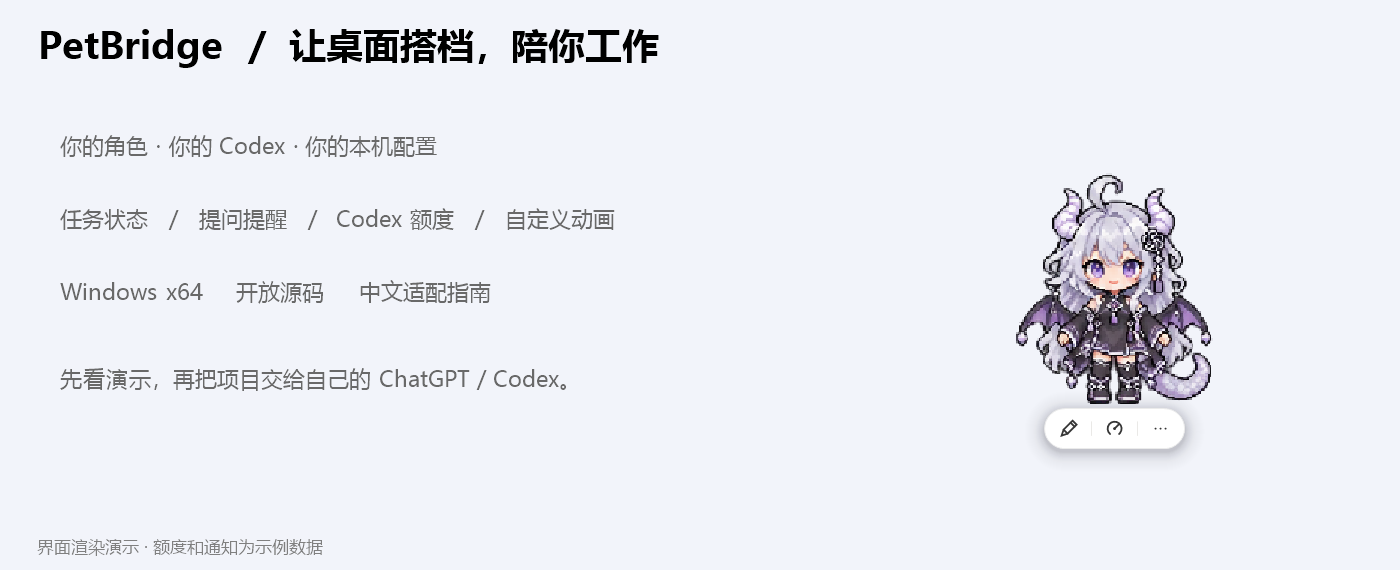
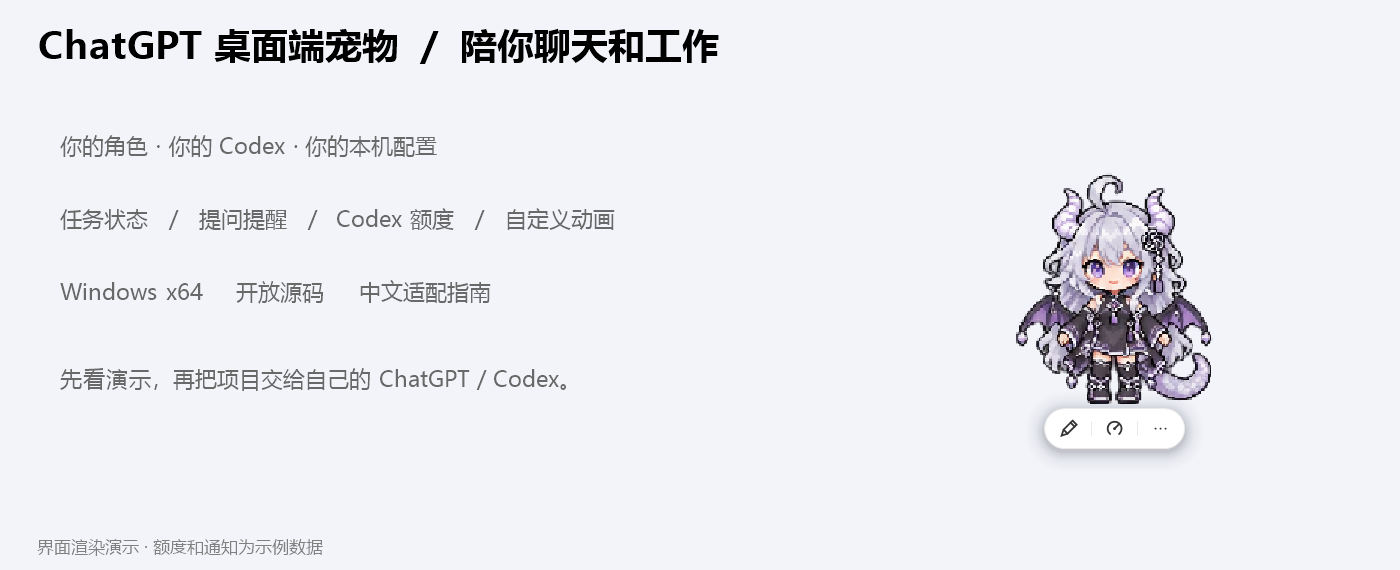
docs: introduce ChatGPT desktop pet and its origin

Changed region(s): [[0.0307, 0.0298, 0.5221, 0.1193]]

diff --git a/docs/RELEASE-COPY.zh-CN.html b/docs/RELEASE-COPY.zh-CN.html
@@ -1,32 +1,38 @@
-<!doctype html><html lang="zh-CN"><meta charset="utf-8"><meta name="viewport" content="width=device-width,initial-scale=1"><base href="./"><title>PetBridge · 中文阅读版</title><style>*{box-sizing:border-box}body{margin:0;color:#30313d;background:#f2f3f8;font:16px/1.9 "Segoe UI","Microsoft YaHei",sans-serif}nav{background:#242533;color:#fff;padding:16px 5%;position:sticky;top:0;z-index:2;display:flex;gap:24px;flex-wrap:wrap}nav a{color:#ded8ff;text-decoration:none}nav strong{margin-right:auto}main{max-width:1100px;margin:30px auto;padding:42px 52px;background:white;border-radius:24px;box-shadow:0 12px 40px #2923330b}h1{font-size:34px;line-height:1.4;color:#252436}h2{border-top:1px solid #e8e6ef;padding-top:27px;margin-top:36px;font-size:24px}h3{font-size:19px;margin-top:25px}a{color:#6552a0}img,video{display:block;max-width:100%;height:auto;border-radius:15px;margin:20px auto}pre{background:#272735;color:#f0edf8;padding:22px;border-radius:12px;white-space:pre-wrap;overflow-wrap:anywhere;line-height:1.7}code{font:14px Consolas,monospace;background:#f0edf7;padding:2px 5px;border-radius:4px}img[src$=".gif"]{image-rendering:pixelated}pre code{background:none;padding:0}blockquote{margin:20px 0;border-left:4px solid #a893d0;background:#f7f5fb;padding:12px 22px;color:#686278}table{border-collapse:collapse;width:100%;margin:20px 0;font-size:14px}td,th{padding:12px;text-align:left;border-bottom:1px solid #e7e6ed}th{background:#f6f4fa}li{margin:8px 0}details{padding:16px 22px;background:#f8f7fb;border-radius:12px}summary{cursor:pointer;font-weight:bold}footer{color:#898492;font-size:13px;margin-top:40px}.tag{color:#827095;font-size:13px;letter-spacing:1px}@media(max-width:700px){main{margin:0;padding:24px 18px;border-radius:0}h1{font-size:28px}nav{position:static;gap:12px}table{display:block;overflow:auto}}</style><nav><strong>PetBridge</strong><a href="PROJECT-PREVIEW.html">项目首页</a><a href="FEATURE-GALLERY.zh-CN.html">功能图鉴</a><a href="CUSTOMIZE-CHARACTER.zh-CN.html">改角色</a><a href="RELEASE-COPY.zh-CN.html">发布文案</a></nav><main><div class="tag">WINDOWS DESKTOP COMPANION · v1.3.1</div><h1 id="可直接复制的-github-发布文案">可直接复制的 GitHub 发布文案</h1>
-<p>README 已经是排版好的仓库首页。以下是不同位置可直接粘贴的短文案；仓库地址请换成你自己的。</p>
+<!doctype html><html lang="zh-CN"><meta charset="utf-8"><meta name="viewport" content="width=device-width,initial-scale=1"><base href="./"><title>ChatGPT 桌面端宠物 · 中文阅读版</title><style>*{box-sizing:border-box}body{margin:0;color:#30313d;background:#f2f3f8;font:16px/1.9 "Segoe UI","Microsoft YaHei",sans-serif}nav{background:#242533;color:#fff;padding:16px 5%;position:sticky;top:0;z-index:2;display:flex;gap:24px;flex-wrap:wrap}nav a{color:#ded8ff;text-decoration:none}nav strong{margin-right:auto}main{max-width:1100px;margin:30px auto;padding:42px 52px;background:white;border-radius:24px;box-shadow:0 12px 40px #2923330b}h1{font-size:34px;line-height:1.4;color:#252436}h2{border-top:1px solid #e8e6ef;padding-top:27px;margin-top:36px;font-size:24px}h3{font-size:19px;margin-top:25px}a{color:#6552a0}img,video{display:block;max-width:100%;height:auto;border-radius:15px;margin:20px auto}pre{background:#272735;color:#f0edf8;padding:22px;border-radius:12px;white-space:pre-wrap;overflow-wrap:anywhere;line-height:1.7}code{font:14px Consolas,monospace;background:#f0edf7;padding:2px 5px;border-radius:4px}img[src$=".gif"]{image-rendering:pixelated}pre code{background:none;padding:0}blockquote{margin:20px 0;border-left:4px solid #a893d0;background:#f7f5fb;padding:12px 22px;color:#686278}table{border-collapse:collapse;width:100%;margin:20px 0;font-size:14px}td,th{padding:12px;text-align:left;border-bottom:1px solid #e7e6ed}th{background:#f6f4fa}li{margin:8px 0}details{padding:16px 22px;background:#f8f7fb;border-radius:12px}summary{cursor:pointer;font-weight:bold}footer{color:#898492;font-size:13px;margin-top:40px}.tag{color:#827095;font-size:13px;letter-spacing:1px}@media(max-width:700px){main{margin:0;padding:24px 18px;border-radius:0}h1{font-size:28px}nav{position:static;gap:12px}table{display:block;overflow:auto}}</style><nav><strong>ChatGPT 桌面端宠物</strong><a href="PROJECT-PREVIEW.html">项目首页</a><a href="FEATURE-GALLERY.zh-CN.html">功能图鉴</a><a href="CUSTOMIZE-CHARACTER.zh-CN.html">改角色</a><a href="RELEASE-COPY.zh-CN.html">发布文案</a></nav><main><div class="tag">WINDOWS DESKTOP COMPANION · v1.3.1</div><h1 id="github-项目介绍与发布文案">GitHub 项目介绍与发布文案</h1>
 <h2 id="仓库-description">仓库 Description</h2>
-<p>可换角色的 Windows 桌面搭档：任务状态、提问提醒、Codex 额度和自定义像素动画，可交给自己的 ChatGPT / Codex 适配。</p>
+<p>ChatGPT 桌面端宠物：用 Codex 制作，支持任务与提问提醒、Codex 额度、像素动画和自定义角色。</p>
 <h2 id="推荐-topics">推荐 Topics</h2>
 <p><code>desktop-pet</code> <code>windows</code> <code>codex</code> <code>chatgpt</code> <code>pixel-art</code> <code>desktop-companion</code> <code>csharp</code></p>
 <h2 id="发帖--转发介绍">发帖 / 转发介绍</h2>
-<p>做了一个可换角色的 Windows 桌面搭档 PetBridge，现已开源。</p>
-<p>平时是人物脚边的小胶囊，鼠标碰到展开工具条；任务进行时思考、显示三点，完成或需要回答时弹气泡。支持左右贴边、额度胶囊、字体位置和投影调整，也能换成自己的角色。</p>
-<p>默认附灰黑微紫的像素 ChatGPT 娘，有待机、左右走路、招手、跳跃、思考和 16 向注视。动作不齐也能用，缺少跳跃就模拟，不必重新画整套。</p>
-<p>下载后可把完整项目交给自己的本机 ChatGPT / Codex，按附带提示词绑定自己的环境，也可以让 Codex 帮你改形象。普通聊天完成气泡默认关闭；额度显示的是 Codex 额度。兼容桥接取决于本机桌面组件与版本。</p>
-<p>Windows 运行包、源码、功能演示、角色定制和新手教程都在仓库。代码 MIT，默认角色与图标按素材说明。这是独立项目，非 OpenAI 官方产品。</p>
-<p>仓库链接：替换成自己的 GitHub 地址。</p>
+<p>做了一个 ChatGPT 桌面端宠物，项目叫 PetBridge。</p>
+<p>起初觉得官方宠物与任务状态的互动还不够贴合自己的习惯，于是用 Codex 做了这个项目：工作时陪你思考，需要回答时叫你，完成后弹气泡，还能随手看 Codex 额度。</p>
+<p>支持左右贴边、胶囊工具条、快捷聊天和详细外观设置。附带灰黑微紫像素 ChatGPT 娘，也可以换成自己的角色，或把项目交给自己的 Codex 帮忙适配、修改形象。</p>
+<p>Windows 体验包、源码、动作演示和中文适配指南都已备好。PetBridge 是独立社区项目，非 OpenAI 官方产品；代码 MIT，角色和标识另见素材说明。</p>
 <h2 id="release-标题">Release 标题</h2>
-<p>PetBridge v1.3.1｜角色、功能演示与中文适配指南</p>
+<p>ChatGPT 桌面端宠物 v1.3.1</p>
 <h2 id="release-正文">Release 正文</h2>
-<h3 id="这版有什么">这版有什么</h3>
+<p>让自己的角色，陪你聊天和完成任务。</p>
+<h3 id="为什么做这个">为什么做这个</h3>
+<p>起初使用官方宠物时，我觉得它还不够懂我的工作状态：我希望它能跟着任务思考、在需要回答时叫我、完成后告诉我，也能随手看一眼剩余额度。于是，我用 Codex 做了这个更贴合自己使用习惯的 ChatGPT 桌面端宠物，并把它整理成可以自己适配、自己换角色的开源项目。</p>
+<p><a href="https://github.com/litianby33/PetBridge#readme">功能与动作演示</a> · <a href="https://github.com/litianby33/PetBridge/blob/main/docs/CODEX-ADAPT.zh-CN.md">本机适配指南</a> · <a href="https://github.com/litianby33/PetBridge/blob/main/docs/CUSTOMIZE-CHARACTER.zh-CN.md">让 Codex 改角色</a></p>
+<h3 id="它能做什么">它能做什么</h3>
 <ul>
-<li>灰黑微紫像素角色：六组动作、16 向注视，修正走路腿部交换。</li>
-<li>悬停胶囊、独立聊天输入、Codex 额度和重置时间；额度排版与投影可调。</li>
-<li>进行中思考与三点、完成／低额／耗尽／重置／待回答气泡，左右贴边唤出。</li>
-<li>普通 ChatGPT 完成气泡默认关闭，Work / Codex 保留；点击可选仅收起或跳转。</li>
-<li>精简右键菜单、12 个设置页、完整 GIF／图片图鉴。</li>
-<li>接收者绑定自己的 Codex 和角色；附让 Codex 改形象的提示词。</li>
+<li><strong>陪你工作</strong>：任务进行时持续思考，旁边用三点显示状态；完成或需要回答时弹出提醒。</li>
+<li><strong>随手看额度</strong>：查看 Codex 的 5 小时、本周剩余额度和重置时间，支持阈值提醒，靠边自动变为竖排胶囊。</li>
+<li><strong>快捷开始聊天</strong>：点击聊天框左侧图标选择 Codex 或普通 ChatGPT，也可用 Alt+1 / Alt+2 切换。</li>
+<li><strong>按习惯接收提醒</strong>：Work、Codex 和普通聊天分别设置；气泡可选择点击收起或跳转对话。</li>
+<li><strong>安静待在桌边</strong>：左右贴边探头，点击展开，悬停看简洁额度；支持临时隐藏和全屏避让。</li>
+<li><strong>调整成喜欢的样子</strong>：字体、位置、阴影、气泡颜色和三点加载都可调，有 12 个详细设置页。</li>
+<li><strong>用自己的角色</strong>：附灰黑微紫像素 ChatGPT 娘，包含六组动作和 16 向注视；支持更换角色，也可以让 Codex 帮你改形象。缺少动作时使用基础动作，没有跳跃时模拟跳。</li>
 </ul>
-<h3 id="下载哪个">下载哪个</h3>
-<table><tr><th>附件</th><th>用途</th></tr><tr><td>PetBridge-v1.3.1-windows-x64.zip</td><td>Windows 体验包，含程序、源码、公开角色与文档</td></tr><tr><td>PetBridge-v1.3.1-source.zip</td><td>源码包，编译或修改用</td></tr><tr><td>SHA256SUMS.txt</td><td>校验下载文件内容</td></tr></table>
-<p>完整解压，进入 PetBridge 文件夹，双击 Start.cmd。右键人物 → 详细设置 → 测试工具可预览。绑定和换角色请阅读 README，再复制“给Codex的提示词.txt”交给自己的本机助手。</p>
-<h3 id="使用边界">使用边界</h3>
-<p>Codex 额度不等同于普通 ChatGPT 每个模型的额度。桌宠输入是独立会话。桌面 ChatGPT / Work 桥接需本机组件，版本更新后可能需适配；异步提问不保证全部导出。图片为离线界面演示，不含作者账号配置或私人角色。</p>
-<p>代码 MIT，生成角色和第三方标识见 ARTWORK / THIRD_PARTY_NOTICES。本项目非 OpenAI 官方产品。</p>
-<p>本版新增：靠边自动竖排额度，横竖独立排版；输入框可选 Codex 桌宠回复或普通 ChatGPT 桌面草稿，普通目标仍需在桌面手动发送。</p><footer>本地阅读版；GitHub 首页由 README.md 展示。图片与 GIF 随项目保存，无需登录即可阅读。</footer></main></html>
+<h3 id="下载与开始">下载与开始</h3>
+<table><tr><th>附件</th><th>用途</th></tr><tr><td>PetBridge-v1.3.1-windows-x64.zip</td><td>Windows 体验包：程序、源码、默认角色和文档</td></tr><tr><td>PetBridge-v1.3.1-source.zip</td><td>编译或修改代码的源码包</td></tr><tr><td>SHA256SUMS.txt</td><td>下载文件的 SHA-256 校验值</td></tr></table>
+<p>完整解压，进入 PetBridge 文件夹，双击 Start.cmd。右键人物 → 详细设置 → 测试工具，可以预览动作与提醒。绑定自己的环境或换角色，请阅读 README，再把“给Codex的提示词.txt”交给能操作本机项目的 ChatGPT / Codex。</p>
+<h3 id="使用说明">使用说明</h3>
+<ul>
+<li>Windows x64 / .NET Framework 4.8。角色导入工具需要 Python + Pillow。</li>
+<li>Codex 聊天在桌宠独立会话中回复；普通 ChatGPT 打开桌面草稿，仍需在桌面手动发送和查看回复。</li>
+<li>额度显示的是 Codex 账号额度。普通 ChatGPT 联动与完成气泡默认关闭，Work / Codex 和提问提醒可分别调整。</li>
+<li>ChatGPT / Work 联动依赖本机桌面组件与版本；异步提问的识别范围取决于组件提供的状态。演示使用示例数据。</li>
+<li>PetBridge 是独立社区项目，非 OpenAI 官方产品。代码 MIT；生成角色与第三方标识见 ARTWORK.md / THIRD_PARTY_NOTICES.md。</li>
+</ul><footer>本地阅读版；GitHub 首页由 README.md 展示。图片与 GIF 随项目保存，无需登录即可阅读。</footer></main></html>

diff --git a/docs/PROJECT-PREVIEW.html b/docs/PROJECT-PREVIEW.html
@@ -1,12 +1,14 @@
-<!doctype html><html lang="zh-CN"><meta charset="utf-8"><meta name="viewport" content="width=device-width,initial-scale=1"><base href="../"><title>PetBridge · 中文阅读版</title><style>*{box-sizing:border-box}body{margin:0;color:#30313d;background:#f2f3f8;font:16px/1.9 "Segoe UI","Microsoft YaHei",sans-serif}nav{background:#242533;color:#fff;padding:16px 5%;position:sticky;top:0;z-index:2;display:flex;gap:24px;flex-wrap:wrap}nav a{color:#ded8ff;text-decoration:none}nav strong{margin-right:auto}main{max-width:1100px;margin:30px auto;padding:42px 52px;background:white;border-radius:24px;box-shadow:0 12px 40px #2923330b}h1{font-size:34px;line-height:1.4;color:#252436}h2{border-top:1px solid #e8e6ef;padding-top:27px;margin-top:36px;font-size:24px}h3{font-size:19px;margin-top:25px}a{color:#6552a0}img,video{display:block;max-width:100%;height:auto;border-radius:15px;margin:20px auto}pre{background:#272735;color:#f0edf8;padding:22px;border-radius:12px;white-space:pre-wrap;overflow-wrap:anywhere;line-height:1.7}code{font:14px Consolas,monospace;background:#f0edf7;padding:2px 5px;border-radius:4px}img[src$=".gif"]{image-rendering:pixelated}pre code{background:none;padding:0}blockquote{margin:20px 0;border-left:4px solid #a893d0;background:#f7f5fb;padding:12px 22px;color:#686278}table{border-collapse:collapse;width:100%;margin:20px 0;font-size:14px}td,th{padding:12px;text-align:left;border-bottom:1px solid #e7e6ed}th{background:#f6f4fa}li{margin:8px 0}details{padding:16px 22px;background:#f8f7fb;border-radius:12px}summary{cursor:pointer;font-weight:bold}footer{color:#898492;font-size:13px;margin-top:40px}.tag{color:#827095;font-size:13px;letter-spacing:1px}@media(max-width:700px){main{margin:0;padding:24px 18px;border-radius:0}h1{font-size:28px}nav{position:static;gap:12px}table{display:block;overflow:auto}}</style><nav><strong>PetBridge</strong><a href="docs/PROJECT-PREVIEW.html">项目首页</a><a href="docs/FEATURE-GALLERY.zh-CN.html">功能图鉴</a><a href="docs/CUSTOMIZE-CHARACTER.zh-CN.html">改角色</a><a href="docs/RELEASE-COPY.zh-CN.html">发布文案</a></nav><main><div class="tag">WINDOWS DESKTOP COMPANION · v1.3.1</div><div align="center">
-<h1 id="petbridge">PetBridge</h1>
+<!doctype html><html lang="zh-CN"><meta charset="utf-8"><meta name="viewport" content="width=device-width,initial-scale=1"><base href="../"><title>ChatGPT 桌面端宠物 · 中文阅读版</title><style>*{box-sizing:border-box}body{margin:0;color:#30313d;background:#f2f3f8;font:16px/1.9 "Segoe UI","Microsoft YaHei",sans-serif}nav{background:#242533;color:#fff;padding:16px 5%;position:sticky;top:0;z-index:2;display:flex;gap:24px;flex-wrap:wrap}nav a{color:#ded8ff;text-decoration:none}nav strong{margin-right:auto}main{max-width:1100px;margin:30px auto;padding:42px 52px;background:white;border-radius:24px;box-shadow:0 12px 40px #2923330b}h1{font-size:34px;line-height:1.4;color:#252436}h2{border-top:1px solid #e8e6ef;padding-top:27px;margin-top:36px;font-size:24px}h3{font-size:19px;margin-top:25px}a{color:#6552a0}img,video{display:block;max-width:100%;height:auto;border-radius:15px;margin:20px auto}pre{background:#272735;color:#f0edf8;padding:22px;border-radius:12px;white-space:pre-wrap;overflow-wrap:anywhere;line-height:1.7}code{font:14px Consolas,monospace;background:#f0edf7;padding:2px 5px;border-radius:4px}img[src$=".gif"]{image-rendering:pixelated}pre code{background:none;padding:0}blockquote{margin:20px 0;border-left:4px solid #a893d0;background:#f7f5fb;padding:12px 22px;color:#686278}table{border-collapse:collapse;width:100%;margin:20px 0;font-size:14px}td,th{padding:12px;text-align:left;border-bottom:1px solid #e7e6ed}th{background:#f6f4fa}li{margin:8px 0}details{padding:16px 22px;background:#f8f7fb;border-radius:12px}summary{cursor:pointer;font-weight:bold}footer{color:#898492;font-size:13px;margin-top:40px}.tag{color:#827095;font-size:13px;letter-spacing:1px}@media(max-width:700px){main{margin:0;padding:24px 18px;border-radius:0}h1{font-size:28px}nav{position:static;gap:12px}table{display:block;overflow:auto}}</style><nav><strong>ChatGPT 桌面端宠物</strong><a href="docs/PROJECT-PREVIEW.html">项目首页</a><a href="docs/FEATURE-GALLERY.zh-CN.html">功能图鉴</a><a href="docs/CUSTOMIZE-CHARACTER.zh-CN.html">改角色</a><a href="docs/RELEASE-COPY.zh-CN.html">发布文案</a></nav><main><div class="tag">WINDOWS DESKTOP COMPANION · v1.3.1</div><div align="center">
+<h1 id="chatgpt-桌面端宠物">ChatGPT 桌面端宠物</h1>
 <h3 id="让自己的角色陪你聊天和完成任务">让自己的角色，陪你聊天和完成任务</h3>
-<p>Windows 桌面搭档 · 可换角色 · Codex 状态与额度 · ChatGPT / Work 兼容桥接</p>
+<p>PetBridge · Windows 桌面宠物 · 任务与提问提醒 · Codex 额度 · 自定义角色</p>
 <p><strong>v1.3.1</strong> · Windows x64 / .NET Framework 4.8 · 代码 MIT · 独立社区项目</p>
 <p><a href="#开始使用">开始使用</a> · <a href="docs/FEATURE-GALLERY.zh-CN.html">功能图鉴</a> · <a href="docs/CUSTOMIZE-CHARACTER.zh-CN.html">让 Codex 改角色</a></p>
-<p><img alt="PetBridge 桌面搭档" src="docs/media/hero.png" loading="lazy"></p>
+<p><img alt="ChatGPT 桌面端宠物" src="docs/media/hero.png" loading="lazy"></p>
 </div>
 <p>任务进行时思考，需要你回答时提醒你，任务结束后弹出气泡。你可以换成自己的角色，也可以让能操作本机项目的 ChatGPT / Codex 帮你适配。</p>
+<h2 id="为什么做这个">为什么做这个</h2>
+<p>起初使用官方宠物时，我觉得它还不够懂我的工作状态：我希望它能跟着任务思考、在需要回答时叫我、完成后告诉我，也能随手看一眼剩余额度。于是，我用 Codex 做了这个更贴合自己使用习惯的 ChatGPT 桌面端宠物，并把它整理成可以自己适配、自己换角色的开源项目。</p>
 <blockquote>图片由程序自己的界面代码离线渲染，额度与通知是示例数据。额度胶囊显示 <strong>Codex 额度</strong>；Codex 桌宠聊天是独立会话；普通 ChatGPT 目标通过桌面草稿继续。普通 ChatGPT 完成气泡默认关闭，Work / Codex 完成提醒默认保留。</blockquote>
 <h2 id="先看角色动起来">先看角色动起来</h2>
 <p><img alt="六组动作：待机、左右移动、招手、跳跃、思考" src="docs/media/animations.gif" loading="lazy"></p>
@@ -30,7 +32,7 @@
 <p>聊天框使用单行胶囊：点击左侧模式图标选择 <strong>Codex</strong> 或 <strong>普通 ChatGPT</strong>，也可用 <code>Alt+1</code> / <code>Alt+2</code> 切换。Codex 在桌宠内回复；普通 ChatGPT 会打开桌面草稿，仍需手动发送。复制和历史记录等功能收进“聊天选项”。</p>
 <p><img alt="五种提醒" src="docs/media/notifications.png" loading="lazy"></p>
 <p><img alt="左右贴边" src="docs/media/edges.png" loading="lazy"></p>
-<p><strong>0% 不会随刷新反复提醒。</strong> 确认任务结束后才判断阈值，同一终态事件最多处理一次；用完时说明重置时间，检测到新额度周期时提醒一次。失败、取消不报成成功。</p>
+<p>可设置额度提醒阈值，在任务结束时查看剩余额度；额度用完或进入新的 5 小时周期时，也能收到气泡提醒。</p>
 <p>查看 <a href="docs/FEATURE-GALLERY.zh-CN.html">全部功能与 12 个设置页</a>。下载后也可以在“详细设置 → 测试工具”亲自预览，不必发送真实聊天。</p>
 <h2 id="开始使用">开始使用</h2>
 <ol>
@@ -51,7 +53,7 @@
 <p>也可以请 Codex 帮你改配色、服装细节或生成动作。用 <a href="docs/CUSTOMIZE-CHARACTER.zh-CN.html">角色改造提示词</a>，先确认设计和绘图范围，保留原图，再接入角色。</p>
 <h2 id="联动范围">联动范围</h2>
 <table><tr><th>来源</th><th>支持范围</th><th>条件与限制</th></tr><tr><td>本机 Codex</td><td>任务状态、结束事件、可识别的提问</td><td>只读结构化任务记录</td></tr><tr><td>桌面 Work / 云端 Codex</td><td>兼容桥接状态与完成提醒</td><td>依赖已安装 app-tools，应用需运行</td></tr><tr><td>普通 ChatGPT</td><td>联动与完成气泡默认关闭；提问提醒独立控制</td><td>异步问题不保证导出等待标志</td></tr><tr><td>桌宠输入框</td><td>Codex 在桌宠内回复；普通 ChatGPT 带到桌面草稿</td><td>普通目标仍需在桌面点发送，回复在桌面查看</td></tr><tr><td>5 小时 / 本周额度</td><td>Codex 账号额度与重置时间</td><td>不代表普通 ChatGPT 各模型的通用额度</td></tr></table>
-<p>兼容桥接约 2.5 秒检查最近 50 个及置顶聊天，应用版本变化可能需要适配。数据缺失、等待回答不算成功完成；不通过正文问号猜问题。桥接不是稳定的官方外部接口。</p>
+<p>兼容桥接约 2.5 秒检查最近 50 个及置顶聊天，应用版本变化可能需要适配。桥接不是稳定的官方外部接口。</p>
 <h2 id="开发与素材">开发与素材</h2>
 <pre><code>.\scripts\Build.ps1
 .\scripts\Test.ps1
@@ -61,4 +63,4 @@ python .\tools\package_release.py --output ..\release</code></pre>
 <table><tr><th>想做什么</th><th>文档</th></tr><tr><td>看全功能与设置</td><td><a href="docs/FEATURE-GALLERY.zh-CN.html">功能图鉴</a></td></tr><tr><td>绑定自己的电脑</td><td><a href="docs/CODEX-ADAPT.zh-CN.md">本机适配</a></td></tr><tr><td>换角色、改形象</td><td><a href="docs/CUSTOMIZE-CHARACTER.zh-CN.html">角色定制</a></td></tr><tr><td>复制发布介绍</td><td><a href="docs/RELEASE-COPY.zh-CN.html">发布文案</a></td></tr><tr><td>动作映射与备用动作</td><td><a href="docs/ANIMATIONS.zh-CN.md">动画说明</a></td></tr><tr><td>故障处理 / 开发入口</td><td><a href="docs/TROUBLESHOOTING.zh-CN.md">排错</a> · <a href="docs/ARCHITECTURE.md">架构</a></td></tr></table>
 <p>PetBridge 是独立社区项目，非 OpenAI 官方产品。代码 MIT；角色与标识按各自说明。发布包使用文件白名单，并扫描运行数据、个人路径和私有素材。</p>
 <h3 id="分别控制聊天联动">分别控制聊天联动</h3>
-<p>在「设置 → 联动设置」分别控制普通 ChatGPT 聊天、Work / 云端 Codex 和提问提醒。普通聊天联动默认关闭，不参与思考、三点状态和完成气泡；Work 与本地 Codex 的完成提醒保留。提问提醒独立开启时，桥接仍只读检查等待回复状态。普通聊天完成气泡还需在「提醒设置」中单独开启，单开完成提醒不会绕过已关闭的联动。关闭后重新开启不会补弹已处理的旧完成消息。</p><footer>本地阅读版；GitHub 首页由 README.md 展示。图片与 GIF 随项目保存，无需登录即可阅读。</footer></main></html>
+<p>在「设置 → 联动设置」分别控制普通 ChatGPT 聊天、Work / 云端 Codex 和提问提醒。普通聊天联动和完成气泡默认关闭，Work 与本地 Codex 的完成提醒保留；你可以按自己的使用习惯分别调整。</p><footer>本地阅读版；GitHub 首页由 README.md 展示。图片与 GIF 随项目保存，无需登录即可阅读。</footer></main></html>

diff --git a/docs/FEATURE-GALLERY.zh-CN.html b/docs/FEATURE-GALLERY.zh-CN.html
@@ -1,4 +1,4 @@
-<!doctype html><html lang="zh-CN"><meta charset="utf-8"><meta name="viewport" content="width=device-width,initial-scale=1"><base href="./"><title>PetBridge · 中文阅读版</title><style>*{box-sizing:border-box}body{margin:0;color:#30313d;background:#f2f3f8;font:16px/1.9 "Segoe UI","Microsoft YaHei",sans-serif}nav{background:#242533;color:#fff;padding:16px 5%;position:sticky;top:0;z-index:2;display:flex;gap:24px;flex-wrap:wrap}nav a{color:#ded8ff;text-decoration:none}nav strong{margin-right:auto}main{max-width:1100px;margin:30px auto;padding:42px 52px;background:white;border-radius:24px;box-shadow:0 12px 40px #2923330b}h1{font-size:34px;line-height:1.4;color:#252436}h2{border-top:1px solid #e8e6ef;padding-top:27px;margin-top:36px;font-size:24px}h3{font-size:19px;margin-top:25px}a{color:#6552a0}img,video{display:block;max-width:100%;height:auto;border-radius:15px;margin:20px auto}pre{background:#272735;color:#f0edf8;padding:22px;border-radius:12px;white-space:pre-wrap;overflow-wrap:anywhere;line-height:1.7}code{font:14px Consolas,monospace;background:#f0edf7;padding:2px 5px;border-radius:4px}img[src$=".gif"]{image-rendering:pixelated}pre code{background:none;padding:0}blockquote{margin:20px 0;border-left:4px solid #a893d0;background:#f7f5fb;padding:12px 22px;color:#686278}table{border-collapse:collapse;width:100%;margin:20px 0;font-size:14px}td,th{padding:12px;text-align:left;border-bottom:1px solid #e7e6ed}th{background:#f6f4fa}li{margin:8px 0}details{padding:16px 22px;background:#f8f7fb;border-radius:12px}summary{cursor:pointer;font-weight:bold}footer{color:#898492;font-size:13px;margin-top:40px}.tag{color:#827095;font-size:13px;letter-spacing:1px}@media(max-width:700px){main{margin:0;padding:24px 18px;border-radius:0}h1{font-size:28px}nav{position:static;gap:12px}table{display:block;overflow:auto}}</style><nav><strong>PetBridge</strong><a href="PROJECT-PREVIEW.html">项目首页</a><a href="FEATURE-GALLERY.zh-CN.html">功能图鉴</a><a href="CUSTOMIZE-CHARACTER.zh-CN.html">改角色</a><a href="RELEASE-COPY.zh-CN.html">发布文案</a></nav><main><div class="tag">WINDOWS DESKTOP COMPANION · v1.3.1</div><h1 id="功能与动画图鉴">功能与动画图鉴</h1>
+<!doctype html><html lang="zh-CN"><meta charset="utf-8"><meta name="viewport" content="width=device-width,initial-scale=1"><base href="./"><title>ChatGPT 桌面端宠物 · 中文阅读版</title><style>*{box-sizing:border-box}body{margin:0;color:#30313d;background:#f2f3f8;font:16px/1.9 "Segoe UI","Microsoft YaHei",sans-serif}nav{background:#242533;color:#fff;padding:16px 5%;position:sticky;top:0;z-index:2;display:flex;gap:24px;flex-wrap:wrap}nav a{color:#ded8ff;text-decoration:none}nav strong{margin-right:auto}main{max-width:1100px;margin:30px auto;padding:42px 52px;background:white;border-radius:24px;box-shadow:0 12px 40px #2923330b}h1{font-size:34px;line-height:1.4;color:#252436}h2{border-top:1px solid #e8e6ef;padding-top:27px;margin-top:36px;font-size:24px}h3{font-size:19px;margin-top:25px}a{color:#6552a0}img,video{display:block;max-width:100%;height:auto;border-radius:15px;margin:20px auto}pre{background:#272735;color:#f0edf8;padding:22px;border-radius:12px;white-space:pre-wrap;overflow-wrap:anywhere;line-height:1.7}code{font:14px Consolas,monospace;background:#f0edf7;padding:2px 5px;border-radius:4px}img[src$=".gif"]{image-rendering:pixelated}pre code{background:none;padding:0}blockquote{margin:20px 0;border-left:4px solid #a893d0;background:#f7f5fb;padding:12px 22px;color:#686278}table{border-collapse:collapse;width:100%;margin:20px 0;font-size:14px}td,th{padding:12px;text-align:left;border-bottom:1px solid #e7e6ed}th{background:#f6f4fa}li{margin:8px 0}details{padding:16px 22px;background:#f8f7fb;border-radius:12px}summary{cursor:pointer;font-weight:bold}footer{color:#898492;font-size:13px;margin-top:40px}.tag{color:#827095;font-size:13px;letter-spacing:1px}@media(max-width:700px){main{margin:0;padding:24px 18px;border-radius:0}h1{font-size:28px}nav{position:static;gap:12px}table{display:block;overflow:auto}}</style><nav><strong>ChatGPT 桌面端宠物</strong><a href="PROJECT-PREVIEW.html">项目首页</a><a href="FEATURE-GALLERY.zh-CN.html">功能图鉴</a><a href="CUSTOMIZE-CHARACTER.zh-CN.html">改角色</a><a href="RELEASE-COPY.zh-CN.html">发布文案</a></nav><main><div class="tag">WINDOWS DESKTOP COMPANION · v1.3.1</div><h1 id="功能与动画图鉴">功能与动画图鉴</h1>
 <p>v1.3.1。图片由程序自己的绘制代码离线生成，通知、输入文字和 63% / 82% 等额度均为示例；联动页显示离线状态。图鉴说明外观与入口，不代表每位下载者的云端联动都已验证。</p>
 <h2 id="六组原生动画与注视">六组原生动画与注视</h2>
 <p><img alt="六组动作" src="media/animations.gif" loading="lazy"></p>
@@ -25,7 +25,7 @@
 <p><img alt="通知状态" src="media/notifications.png" loading="lazy"></p>
 <table><tr><th>状态</th><th>默认色</th><th>规则</th></tr><tr><td>完成</td><td>绿</td><td>确认完成后提醒；普通聊天默认关闭</td></tr><tr><td>低于阈值</td><td>橙</td><td>已结束任务后读取额度，低于所设阈值才提醒</td></tr><tr><td>耗尽</td><td>暗酒红 <code>#7f181b</code></td><td>说明已用完与重置时间</td></tr><tr><td>5 小时重置</td><td>蓝</td><td>检测到新周期，提醒一次</td></tr><tr><td>需要回答</td><td>橙</td><td>收到可识别的结构化请求时提醒</td></tr></table>
 <p>气泡从小圆形展开并回弹。完成／额度气泡保留到点击，可选择仅收起或收起并跳转；提问仍保留回桌面对话。上方空间不足时改放下方，避开工具条与额度。颜色、柔光、上下偏移均可调。</p>
-<p>0% 不随定时刷新重复提醒：同一任务终态事件去重，任务结束后再判断阈值。失败、取消不报成功。云端异步问题未导出等待标志时，不保证可识别。</p>
+<p>任务结束后，可按设定的阈值提醒剩余额度；额度耗尽时显示重置时间。云端异步提问的识别范围取决于桌面组件提供的状态。</p>
 <h2 id="十二个设置页">十二个设置页</h2>
 <p><img alt="常用、外观、提醒、动作" src="media/settings-1.png" loading="lazy"></p>
 <p>常用：大小、跟随、启动、移回主屏。外观：投影深浅／范围／偏移、工具条与额度间距。提醒：完整额度、5 小时／周阈值、普通聊天和 Work / Codex 独立开关。动作：左右收起、空闲招手、悬停额度。</p>

diff --git a/docs/QUICKSTART.zh-CN.html b/docs/QUICKSTART.zh-CN.html
@@ -1,4 +1,4 @@
-<!doctype html><html lang="zh-CN"><meta charset="utf-8"><meta name="viewport" content="width=device-width,initial-scale=1"><base href="./"><title>PetBridge · 中文阅读版</title><style>*{box-sizing:border-box}body{margin:0;color:#30313d;background:#f2f3f8;font:16px/1.9 "Segoe UI","Microsoft YaHei",sans-serif}nav{background:#242533;color:#fff;padding:16px 5%;position:sticky;top:0;z-index:2;display:flex;gap:24px;flex-wrap:wrap}nav a{color:#ded8ff;text-decoration:none}nav strong{margin-right:auto}main{max-width:1100px;margin:30px auto;padding:42px 52px;background:white;border-radius:24px;box-shadow:0 12px 40px #2923330b}h1{font-size:34px;line-height:1.4;color:#252436}h2{border-top:1px solid #e8e6ef;padding-top:27px;margin-top:36px;font-size:24px}h3{font-size:19px;margin-top:25px}a{color:#6552a0}img,video{display:block;max-width:100%;height:auto;border-radius:15px;margin:20px auto}pre{background:#272735;color:#f0edf8;padding:22px;border-radius:12px;white-space:pre-wrap;overflow-wrap:anywhere;line-height:1.7}code{font:14px Consolas,monospace;background:#f0edf7;padding:2px 5px;border-radius:4px}img[src$=".gif"]{image-rendering:pixelated}pre code{background:none;padding:0}blockquote{margin:20px 0;border-left:4px solid #a893d0;background:#f7f5fb;padding:12px 22px;color:#686278}table{border-collapse:collapse;width:100%;margin:20px 0;font-size:14px}td,th{padding:12px;text-align:left;border-bottom:1px solid #e7e6ed}th{background:#f6f4fa}li{margin:8px 0}details{padding:16px 22px;background:#f8f7fb;border-radius:12px}summary{cursor:pointer;font-weight:bold}footer{color:#898492;font-size:13px;margin-top:40px}.tag{color:#827095;font-size:13px;letter-spacing:1px}@media(max-width:700px){main{margin:0;padding:24px 18px;border-radius:0}h1{font-size:28px}nav{position:static;gap:12px}table{display:block;overflow:auto}}</style><nav><strong>PetBridge</strong><a href="PROJECT-PREVIEW.html">项目首页</a><a href="FEATURE-GALLERY.zh-CN.html">功能图鉴</a><a href="CUSTOMIZE-CHARACTER.zh-CN.html">改角色</a><a href="RELEASE-COPY.zh-CN.html">发布文案</a></nav><main><div class="tag">WINDOWS DESKTOP COMPANION · v1.3.1</div><h1 id="第一次把-petbridge-上传到-github">第一次把 PetBridge 上传到 GitHub</h1>
+<!doctype html><html lang="zh-CN"><meta charset="utf-8"><meta name="viewport" content="width=device-width,initial-scale=1"><base href="./"><title>ChatGPT 桌面端宠物 · 中文阅读版</title><style>*{box-sizing:border-box}body{margin:0;color:#30313d;background:#f2f3f8;font:16px/1.9 "Segoe UI","Microsoft YaHei",sans-serif}nav{background:#242533;color:#fff;padding:16px 5%;position:sticky;top:0;z-index:2;display:flex;gap:24px;flex-wrap:wrap}nav a{color:#ded8ff;text-decoration:none}nav strong{margin-right:auto}main{max-width:1100px;margin:30px auto;padding:42px 52px;background:white;border-radius:24px;box-shadow:0 12px 40px #2923330b}h1{font-size:34px;line-height:1.4;color:#252436}h2{border-top:1px solid #e8e6ef;padding-top:27px;margin-top:36px;font-size:24px}h3{font-size:19px;margin-top:25px}a{color:#6552a0}img,video{display:block;max-width:100%;height:auto;border-radius:15px;margin:20px auto}pre{background:#272735;color:#f0edf8;padding:22px;border-radius:12px;white-space:pre-wrap;overflow-wrap:anywhere;line-height:1.7}code{font:14px Consolas,monospace;background:#f0edf7;padding:2px 5px;border-radius:4px}img[src$=".gif"]{image-rendering:pixelated}pre code{background:none;padding:0}blockquote{margin:20px 0;border-left:4px solid #a893d0;background:#f7f5fb;padding:12px 22px;color:#686278}table{border-collapse:collapse;width:100%;margin:20px 0;font-size:14px}td,th{padding:12px;text-align:left;border-bottom:1px solid #e7e6ed}th{background:#f6f4fa}li{margin:8px 0}details{padding:16px 22px;background:#f8f7fb;border-radius:12px}summary{cursor:pointer;font-weight:bold}footer{color:#898492;font-size:13px;margin-top:40px}.tag{color:#827095;font-size:13px;letter-spacing:1px}@media(max-width:700px){main{margin:0;padding:24px 18px;border-radius:0}h1{font-size:28px}nav{position:static;gap:12px}table{display:block;overflow:auto}}</style><nav><strong>ChatGPT 桌面端宠物</strong><a href="PROJECT-PREVIEW.html">项目首页</a><a href="FEATURE-GALLERY.zh-CN.html">功能图鉴</a><a href="CUSTOMIZE-CHARACTER.zh-CN.html">改角色</a><a href="RELEASE-COPY.zh-CN.html">发布文案</a></nav><main><div class="tag">WINDOWS DESKTOP COMPANION · v1.3.1</div><h1 id="第一次把-petbridge-上传到-github">第一次把 PetBridge 上传到 GitHub</h1>
 <p>你已经有可用的源码、README、演示图和下载 ZIP。不需要重新制作网页：GitHub 会把仓库根目录的 <code>README.md</code> 显示成项目首页。</p>
 <h2 id="第-1-步分清两个地方">第 1 步：分清两个地方</h2>
 <table><tr><th>GitHub 位置</th><th>放什么</th><th>别人拿来做什么</th></tr><tr><td>Code（仓库文件）</td><td>解压后的源码内容：README、src、docs、characters 等</td><td>看介绍、读源码、交给自己的 Codex 修改</td></tr><tr><td>Releases（发布版本）</td><td>Windows ZIP、源码 ZIP、SHA256SUMS.txt</td><td>下载可运行程序，或下载固定版本源码</td></tr></table>

diff --git a/docs/QUOTA-LAYOUT.zh-CN.html b/docs/QUOTA-LAYOUT.zh-CN.html
@@ -1,4 +1,4 @@
-<!doctype html><html lang="zh-CN"><meta charset="utf-8"><meta name="viewport" content="width=device-width,initial-scale=1"><base href="./"><title>PetBridge · 中文阅读版</title><style>*{box-sizing:border-box}body{margin:0;color:#30313d;background:#f2f3f8;font:16px/1.9 "Segoe UI","Microsoft YaHei",sans-serif}nav{background:#242533;color:#fff;padding:16px 5%;position:sticky;top:0;z-index:2;display:flex;gap:24px;flex-wrap:wrap}nav a{color:#ded8ff;text-decoration:none}nav strong{margin-right:auto}main{max-width:1100px;margin:30px auto;padding:42px 52px;background:white;border-radius:24px;box-shadow:0 12px 40px #2923330b}h1{font-size:34px;line-height:1.4;color:#252436}h2{border-top:1px solid #e8e6ef;padding-top:27px;margin-top:36px;font-size:24px}h3{font-size:19px;margin-top:25px}a{color:#6552a0}img,video{display:block;max-width:100%;height:auto;border-radius:15px;margin:20px auto}pre{background:#272735;color:#f0edf8;padding:22px;border-radius:12px;white-space:pre-wrap;overflow-wrap:anywhere;line-height:1.7}code{font:14px Consolas,monospace;background:#f0edf7;padding:2px 5px;border-radius:4px}img[src$=".gif"]{image-rendering:pixelated}pre code{background:none;padding:0}blockquote{margin:20px 0;border-left:4px solid #a893d0;background:#f7f5fb;padding:12px 22px;color:#686278}table{border-collapse:collapse;width:100%;margin:20px 0;font-size:14px}td,th{padding:12px;text-align:left;border-bottom:1px solid #e7e6ed}th{background:#f6f4fa}li{margin:8px 0}details{padding:16px 22px;background:#f8f7fb;border-radius:12px}summary{cursor:pointer;font-weight:bold}footer{color:#898492;font-size:13px;margin-top:40px}.tag{color:#827095;font-size:13px;letter-spacing:1px}@media(max-width:700px){main{margin:0;padding:24px 18px;border-radius:0}h1{font-size:28px}nav{position:static;gap:12px}table{display:block;overflow:auto}}</style><nav><strong>PetBridge</strong><a href="PROJECT-PREVIEW.html">项目首页</a><a href="FEATURE-GALLERY.zh-CN.html">功能图鉴</a><a href="CUSTOMIZE-CHARACTER.zh-CN.html">改角色</a><a href="RELEASE-COPY.zh-CN.html">发布文案</a></nav><main><div class="tag">WINDOWS DESKTOP COMPANION · v1.3.1</div><h1 id="额度横竖排与聊天目标">额度横竖排与聊天目标</h1>
+<!doctype html><html lang="zh-CN"><meta charset="utf-8"><meta name="viewport" content="width=device-width,initial-scale=1"><base href="./"><title>ChatGPT 桌面端宠物 · 中文阅读版</title><style>*{box-sizing:border-box}body{margin:0;color:#30313d;background:#f2f3f8;font:16px/1.9 "Segoe UI","Microsoft YaHei",sans-serif}nav{background:#242533;color:#fff;padding:16px 5%;position:sticky;top:0;z-index:2;display:flex;gap:24px;flex-wrap:wrap}nav a{color:#ded8ff;text-decoration:none}nav strong{margin-right:auto}main{max-width:1100px;margin:30px auto;padding:42px 52px;background:white;border-radius:24px;box-shadow:0 12px 40px #2923330b}h1{font-size:34px;line-height:1.4;color:#252436}h2{border-top:1px solid #e8e6ef;padding-top:27px;margin-top:36px;font-size:24px}h3{font-size:19px;margin-top:25px}a{color:#6552a0}img,video{display:block;max-width:100%;height:auto;border-radius:15px;margin:20px auto}pre{background:#272735;color:#f0edf8;padding:22px;border-radius:12px;white-space:pre-wrap;overflow-wrap:anywhere;line-height:1.7}code{font:14px Consolas,monospace;background:#f0edf7;padding:2px 5px;border-radius:4px}img[src$=".gif"]{image-rendering:pixelated}pre code{background:none;padding:0}blockquote{margin:20px 0;border-left:4px solid #a893d0;background:#f7f5fb;padding:12px 22px;color:#686278}table{border-collapse:collapse;width:100%;margin:20px 0;font-size:14px}td,th{padding:12px;text-align:left;border-bottom:1px solid #e7e6ed}th{background:#f6f4fa}li{margin:8px 0}details{padding:16px 22px;background:#f8f7fb;border-radius:12px}summary{cursor:pointer;font-weight:bold}footer{color:#898492;font-size:13px;margin-top:40px}.tag{color:#827095;font-size:13px;letter-spacing:1px}@media(max-width:700px){main{margin:0;padding:24px 18px;border-radius:0}h1{font-size:28px}nav{position:static;gap:12px}table{display:block;overflow:auto}}</style><nav><strong>ChatGPT 桌面端宠物</strong><a href="PROJECT-PREVIEW.html">项目首页</a><a href="FEATURE-GALLERY.zh-CN.html">功能图鉴</a><a href="CUSTOMIZE-CHARACTER.zh-CN.html">改角色</a><a href="RELEASE-COPY.zh-CN.html">发布文案</a></nav><main><div class="tag">WINDOWS DESKTOP COMPANION · v1.3.1</div><h1 id="额度横竖排与聊天目标">额度横竖排与聊天目标</h1>
 <h2 id="自动竖排">自动竖排</h2>
 <p>在「详细设置 → 额度排版」选择「靠近左右边缘时自动竖排」。判断依据是横排胶囊是否会挤到当前屏幕边缘；回到中间后恢复横排，并保留 24 px 回切缓冲，减少临界位置反复切换。</p>
 <p>竖排是一个圆角胶囊：上面显示 5 小时，下面显示本周，中间为水平分隔线。人物完全藏到屏幕边缘时，继续使用原来的悬停极简提示。</p>

diff --git a/docs/CUSTOMIZE-CHARACTER.zh-CN.html b/docs/CUSTOMIZE-CHARACTER.zh-CN.html
@@ -1,4 +1,4 @@
-<!doctype html><html lang="zh-CN"><meta charset="utf-8"><meta name="viewport" content="width=device-width,initial-scale=1"><base href="./"><title>PetBridge · 中文阅读版</title><style>*{box-sizing:border-box}body{margin:0;color:#30313d;background:#f2f3f8;font:16px/1.9 "Segoe UI","Microsoft YaHei",sans-serif}nav{background:#242533;color:#fff;padding:16px 5%;position:sticky;top:0;z-index:2;display:flex;gap:24px;flex-wrap:wrap}nav a{color:#ded8ff;text-decoration:none}nav strong{margin-right:auto}main{max-width:1100px;margin:30px auto;padding:42px 52px;background:white;border-radius:24px;box-shadow:0 12px 40px #2923330b}h1{font-size:34px;line-height:1.4;color:#252436}h2{border-top:1px solid #e8e6ef;padding-top:27px;margin-top:36px;font-size:24px}h3{font-size:19px;margin-top:25px}a{color:#6552a0}img,video{display:block;max-width:100%;height:auto;border-radius:15px;margin:20px auto}pre{background:#272735;color:#f0edf8;padding:22px;border-radius:12px;white-space:pre-wrap;overflow-wrap:anywhere;line-height:1.7}code{font:14px Consolas,monospace;background:#f0edf7;padding:2px 5px;border-radius:4px}img[src$=".gif"]{image-rendering:pixelated}pre code{background:none;padding:0}blockquote{margin:20px 0;border-left:4px solid #a893d0;background:#f7f5fb;padding:12px 22px;color:#686278}table{border-collapse:collapse;width:100%;margin:20px 0;font-size:14px}td,th{padding:12px;text-align:left;border-bottom:1px solid #e7e6ed}th{background:#f6f4fa}li{margin:8px 0}details{padding:16px 22px;background:#f8f7fb;border-radius:12px}summary{cursor:pointer;font-weight:bold}footer{color:#898492;font-size:13px;margin-top:40px}.tag{color:#827095;font-size:13px;letter-spacing:1px}@media(max-width:700px){main{margin:0;padding:24px 18px;border-radius:0}h1{font-size:28px}nav{position:static;gap:12px}table{display:block;overflow:auto}}</style><nav><strong>PetBridge</strong><a href="PROJECT-PREVIEW.html">项目首页</a><a href="FEATURE-GALLERY.zh-CN.html">功能图鉴</a><a href="CUSTOMIZE-CHARACTER.zh-CN.html">改角色</a><a href="RELEASE-COPY.zh-CN.html">发布文案</a></nav><main><div class="tag">WINDOWS DESKTOP COMPANION · v1.3.1</div><h1 id="换角色也可以请-codex-帮你改形象">换角色，也可以请 Codex 帮你改形象</h1>
+<!doctype html><html lang="zh-CN"><meta charset="utf-8"><meta name="viewport" content="width=device-width,initial-scale=1"><base href="./"><title>ChatGPT 桌面端宠物 · 中文阅读版</title><style>*{box-sizing:border-box}body{margin:0;color:#30313d;background:#f2f3f8;font:16px/1.9 "Segoe UI","Microsoft YaHei",sans-serif}nav{background:#242533;color:#fff;padding:16px 5%;position:sticky;top:0;z-index:2;display:flex;gap:24px;flex-wrap:wrap}nav a{color:#ded8ff;text-decoration:none}nav strong{margin-right:auto}main{max-width:1100px;margin:30px auto;padding:42px 52px;background:white;border-radius:24px;box-shadow:0 12px 40px #2923330b}h1{font-size:34px;line-height:1.4;color:#252436}h2{border-top:1px solid #e8e6ef;padding-top:27px;margin-top:36px;font-size:24px}h3{font-size:19px;margin-top:25px}a{color:#6552a0}img,video{display:block;max-width:100%;height:auto;border-radius:15px;margin:20px auto}pre{background:#272735;color:#f0edf8;padding:22px;border-radius:12px;white-space:pre-wrap;overflow-wrap:anywhere;line-height:1.7}code{font:14px Consolas,monospace;background:#f0edf7;padding:2px 5px;border-radius:4px}img[src$=".gif"]{image-rendering:pixelated}pre code{background:none;padding:0}blockquote{margin:20px 0;border-left:4px solid #a893d0;background:#f7f5fb;padding:12px 22px;color:#686278}table{border-collapse:collapse;width:100%;margin:20px 0;font-size:14px}td,th{padding:12px;text-align:left;border-bottom:1px solid #e7e6ed}th{background:#f6f4fa}li{margin:8px 0}details{padding:16px 22px;background:#f8f7fb;border-radius:12px}summary{cursor:pointer;font-weight:bold}footer{color:#898492;font-size:13px;margin-top:40px}.tag{color:#827095;font-size:13px;letter-spacing:1px}@media(max-width:700px){main{margin:0;padding:24px 18px;border-radius:0}h1{font-size:28px}nav{position:static;gap:12px}table{display:block;overflow:auto}}</style><nav><strong>ChatGPT 桌面端宠物</strong><a href="PROJECT-PREVIEW.html">项目首页</a><a href="FEATURE-GALLERY.zh-CN.html">功能图鉴</a><a href="CUSTOMIZE-CHARACTER.zh-CN.html">改角色</a><a href="RELEASE-COPY.zh-CN.html">发布文案</a></nav><main><div class="tag">WINDOWS DESKTOP COMPANION · v1.3.1</div><h1 id="换角色也可以请-codex-帮你改形象">换角色，也可以请 Codex 帮你改形象</h1>
 <p>先确定素材来源和改动范围，保留原图，试用满意后再设为默认。</p>
 <h2 id="已有角色素材">已有角色素材</h2>
 <p>把素材和完整解压的 PetBridge 文件夹交给本机 Codex，发送：</p>

diff --git a/tools/DemoExport.cs b/tools/DemoExport.cs
@@ -1,4 +1,4 @@
-// Offline documentation renderer. Compile separately with scripts/Export-Demos.ps1.
+// Offline documentation renderer. Compile separately with scripts/Export-Demos.ps1.
 // Uses real product paint/control code with synthetic state; never opens conversations.
 using System;
 using System.IO;
@@ -29,7 +29,7 @@ namespace PetBridge {
         static void Save(Bitmap b,string name){b.Save(Path.Combine(output,name),ImageFormat.Png);b.Dispose();}
         static Bitmap Notification(PetForm p,string kind,string headline,string detail){using(var n=new NoticeCard(p)){Set(n,"kind",kind);Set(n,"headline",headline);Set(n,"detail",detail);Set(n,"progress",1.0);Set(n,"anchorX",194f);return Painted(n);}}
         [STAThread] public static void Main(string[] args){
-            if(args.Length!=2)throw new ArgumentException("project root and media output required");
+            if(args.Length<2||args.Length>3)throw new ArgumentException("project root and media output required");
             try{SetProcessDpiAwarenessContext(new IntPtr(-4));}catch{}
             output=Path.GetFullPath(args[1]);Directory.CreateDirectory(output);
             Environment.SetEnvironmentVariable("PETBRIDGE_DATA_DIR",Path.Combine(Path.GetTempPath(),"petbridge-docs-"+Guid.NewGuid().ToString("N")));
@@ -39,7 +39,7 @@ namespace PetBridge {
             Directory.CreateDirectory(Program.DataRoot);Application.EnableVisualStyles();Application.SetCompatibleTextRenderingDefault(false);
             using(var p=new PetForm()){
                 p.PrepareDocumentation();
-                var hero=Canvas(1400,570,"PetBridge  /  让桌面搭档，陪你工作");using(var g=Graphics.FromImage(hero))using(var pet=p.DocumentationBody(0,0,true)){g.DrawImageUnscaled(pet,970,100);Label(g,"你的角色 · 你的 Codex · 你的本机配置",56,132);Label(g,"任务状态   /   提问提醒   /   Codex 额度   /   自定义动画",56,205);Label(g,"Windows x64     开放源码     中文适配指南",56,278);Label(g,"先看演示，再把项目交给自己的 ChatGPT / Codex。",56,365);}Save(hero,"hero.png");
+                var hero=Canvas(1400,570,"ChatGPT 桌面端宠物  /  陪你聊天和工作");using(var g=Graphics.FromImage(hero))using(var pet=p.DocumentationBody(0,0,true)){g.DrawImageUnscaled(pet,970,100);Label(g,"你的角色 · 你的 Codex · 你的本机配置",56,132);Label(g,"任务状态   /   提问提醒   /   Codex 额度   /   自定义动画",56,205);Label(g,"Windows x64     开放源码     中文适配指南",56,278);Label(g,"先看演示，再把项目交给自己的 ChatGPT / Codex。",56,365);}Save(hero,"hero.png");if(args.Length==3&&args[2]=="--hero-only")return;
                 var toolbar=Canvas(1000,660,"悬停展开工具条 · 额度跟随布局");using(var g=Graphics.FromImage(toolbar)){using(var body=p.DocumentationBody(0,0,false))g.DrawImageUnscaled(body,80,95);using(var body=p.DocumentationBody(0,0,true))g.DrawImageUnscaled(body,570,95);Label(g,"平时收起，贴近脚边",52,565);Label(g,"悬停展开：聊天 / 额度 / 菜单",530,565);using(var quota=new UsageCard(p,p.Usage))using(var b=Painted(quota)){g.DrawImage(b,new Rectangle(495,430,b.Width,b.Height));}}Save(toolbar,"toolbar-quota.png");
                 using(var quota=new UsageCard(p,p.Usage))using(var closeup=Painted(quota)){closeup.Save(Path.Combine(output,"quota-closeup.png"),ImageFormat.Png);}
                 for(int mode=0;mode<2;mode++){

diff --git a/tools/build_docs_preview.py b/tools/build_docs_preview.py
@@ -72,7 +72,7 @@ def main():
         text=(ROOT/source).read_text(encoding='utf-8-sig')
         prefix='docs/' if base=='../' else ''
         nav=''.join('<a href="'+prefix+file+'">'+label+'</a>' for file,label in [('PROJECT-PREVIEW.html','项目首页'),('FEATURE-GALLERY.zh-CN.html','功能图鉴'),('CUSTOMIZE-CHARACTER.zh-CN.html','改角色'),('RELEASE-COPY.zh-CN.html','发布文案')])
-        page='<!doctype html><html lang="zh-CN"><meta charset="utf-8"><meta name="viewport" content="width=device-width,initial-scale=1"><base href="'+base+'"><title>PetBridge · 中文阅读版</title><style>'+CSS+'</style><nav><strong>PetBridge</strong>'+nav+'</nav><main><div class="tag">WINDOWS DESKTOP COMPANION · v1.3.1</div>'+render(text)+'<footer>本地阅读版；GitHub 首页由 README.md 展示。图片与 GIF 随项目保存，无需登录即可阅读。</footer></main></html>'
+        page='<!doctype html><html lang="zh-CN"><meta charset="utf-8"><meta name="viewport" content="width=device-width,initial-scale=1"><base href="'+base+'"><title>ChatGPT 桌面端宠物 · 中文阅读版</title><style>'+CSS+'</style><nav><strong>ChatGPT 桌面端宠物</strong>'+nav+'</nav><main><div class="tag">WINDOWS DESKTOP COMPANION · v1.3.1</div>'+render(text)+'<footer>本地阅读版；GitHub 首页由 README.md 展示。图片与 GIF 随项目保存，无需登录即可阅读。</footer></main></html>'
         (ROOT/destination).write_text(page,encoding='utf-8')
     print('Built '+str(len(TARGETS))+' local reading pages.')
 
